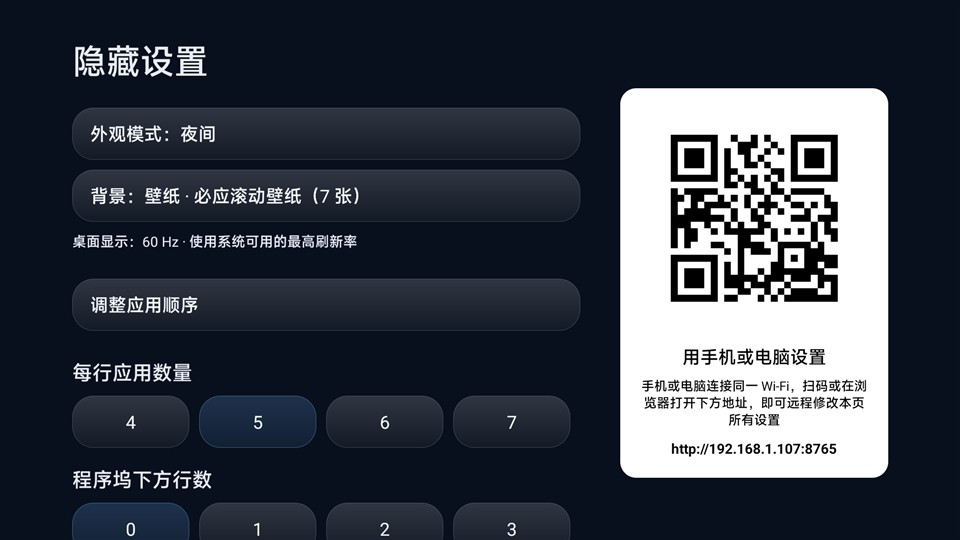
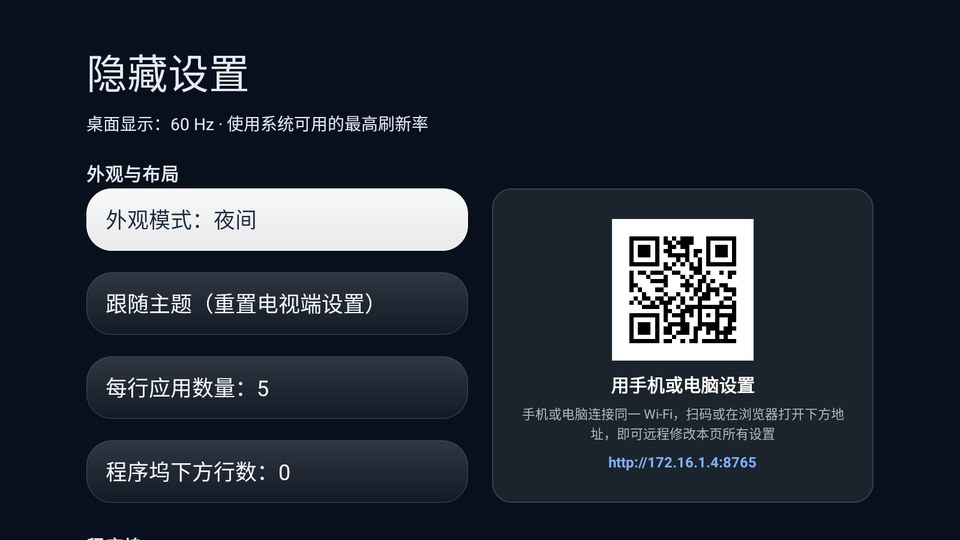
Update README for grouped settings layout, dark QR card and one-tap update

diff --git a/README.md b/README.md
@@ -30,7 +30,7 @@ CleanMiTV 的底子来自 **[CleanYourTV](https://github.com/Gathin23/cleanyourt
 | 👧 **儿童与老人模式** | 移植 [aerial-tv](https://github.com/pengchujin/aerial-tv) 的 Kids Mode：儿童/老人模式、4 位 PIN 锁、时长/作息/休息限制、应用白名单、全屏锁定，详见下方 [儿童与老人模式](#儿童与老人模式kids--elders-mode) |
 | 🏞 **必应滚动壁纸** | 「壁纸 · 使用已选图片」的选择弹窗里，「跟随主题」「无壁纸」旁边多一格「壁纸 · 必应滚动壁纸」：一次拉取 [bing.wdbyte.com/zh-cn/](https://bing.wdbyte.com/zh-cn/) 图集里最近 7 天的 4K 图（Bing 官方接口兜底），保留最近 7 天、最新在前，选完立刻能看到保留的图片，固定 30 分钟换一张并跟随网站每日自动更新，详见下方 [必应滚动壁纸](#必应滚动壁纸bing-rolling-wallpaper) |
 
-| 📱 **扫码设置（局域网远程配置）** | 隐藏设置页右侧显示二维码，手机 / 电脑连同一 Wi-Fi 扫码或浏览器打开，即可远程修改**全部隐藏设置及下级菜单**（外观、布局、天气城市、壁纸上传、开机包名）。纯手写 ServerSocket + 自绘二维码 + 原生网页，**零第三方依赖**，APK 仅增加约 11 KB，详见下方 [扫码设置](#扫码设置scan-to-config) |
+| 📱 **扫码设置（局域网远程配置）** | 隐藏设置页右上角显示与左侧四行等高的**深色二维码**，手机 / 电脑连同一 Wi-Fi 扫码或浏览器打开，即可远程修改**全部隐藏设置及下级菜单**（外观布局、壁纸、儿童 / 老人规则、答题计划、三套 PIN、一键版本更新）。纯手写 ServerSocket + 自绘二维码 + 原生网页 + 自写 ContentProvider，**零第三方依赖**，详见下方 [扫码设置](#扫码设置scan-to-config) 与 [一键版本更新](#一键版本更新one-tap-update) |
 
 同时保留了小爱同学、投屏、HDMI / CEC、幻彩随影、米家和系统更新等原厂功能，只停用了统计和诊断组件。
 
@@ -113,37 +113,42 @@ launcher/app/src/main/java/com/gathin/tvhome/
 
 ## 扫码设置（Scan to Config）
 
-不想拿遥控器一层层翻隐藏设置？在「隐藏设置」页右侧放了一张二维码卡片。手机或电脑和电视连**同一个 Wi-Fi（同一局域网）**，用相机 / 浏览器扫码，或者直接在浏览器打开卡片上的地址（如 `http://192.168.1.107:8765`），就能在一个网页里改完本页所有隐藏设置，保存后电视立刻生效。
+不想拿遥控器一层层翻隐藏设置？在「隐藏设置」页右上角放了一张**深色二维码卡片**，和左侧「外观与布局」四行等高、融为一体（不再是突兀的白色方块）。手机或电脑和电视连**同一个 Wi-Fi（同一局域网）**，用相机 / 浏览器扫码，或者直接在浏览器打开卡片上的地址（如 `http://192.168.1.107:8765`），就能在一个网页里改完**全部隐藏设置及下级菜单**（含儿童 / 老人规则、答题计划、PIN、一键版本更新），保存后电视立刻生效。
 
 **使用方法**
 
-1. 桌面「设置」→ 下拉菜单点「隐藏设置」，页面右侧即出现二维码卡片。
+1. 桌面「设置」→ 下拉菜单点「隐藏设置」，页面右上角即出现与左侧四行等高的深色二维码卡片。
 2. 手机 / 电脑连同一 Wi-Fi，扫码或浏览器打开卡片上的地址。
 3. 在网页里改设置，点底部「保存设置」；电视端 `settings_revision` 自增，回到桌面自动重建，无需重启。
 4. 想换壁纸：在网页「壁纸」区直接选图片上传，或在下拉里选已上传的壁纸。
+5. 想升级：在「版本更新」区填 APK 直链并保存，点「立即更新」即可下载并调起系统安装器（详见下方 [一键版本更新](#一键版本更新one-tap-update)）。
 
-**网页里能改的内容（与电视端隐藏设置一一对应）**
+**网页里能改的内容（与电视端隐藏设置一一对应，按六个折叠分组排列）**
 
-- **外观**：主题模式（夜间 / 白天 / 跟随系统）、背景来源（主题 / 壁纸 / 必应每日）、动画开关、环境背景动态；
-- **布局**：每行应用数（4–7）、程序坞下方行数（0–3）、程序坞透明度（100 / 70 / 50 / 30%）；
+- **外观与布局**：主题模式（夜间 / 白天 / 自动）、每行应用数（4–7）、程序坞下方行数（0–3）、跟随主题（重置电视端设置）；
+- **程序坞 / 壁纸 / 动态效果**：程序坞透明度（100 / 70 / 50 / 30%）、背景来源（主题 / 壁纸 / 必应每日）、壁纸选择与上传、环境背景动态、动画开关；
 - **天气城市**：46 个内置城市单选，默认成都；
-- **壁纸**：当前壁纸下拉选择 + 本地图片上传（JPG / PNG / WEBP，单张 ≤ 10 MB，最多 100 张）；
-- **高级**：开机自动打开的应用包名（留空关闭）。
+- **儿童 / 老人规则**：模式开关、应用白名单与排序、工作日 / 周末时长（0 = 不限，-1 = 整天禁用）、可用时段、强制休息；
+- **答题计划**：学段年级、科目、每轮题量、通过率、每日轮数、玩法模式、周时间网格；
+- **PIN 管理**：儿童 / 老人 / 管理员三套 PIN，可选 4 位数字或 4 个方向键；
+- **版本更新**：配置 APK 直链并一键下载安装。
 
 **零第三方依赖怎么做到的**
 
 - **HTTP 服务**：基于 JDK 原生 `ServerSocket`，后台守护线程 accept、线程池处理，只在隐藏设置页打开期间运行（进页面启动、退出页面即停），不常驻、不额外耗电。
 - **二维码**：自写 `QrCode`（字节模式、纠错级 M、版本 1–10、8 种掩码全评估，GF(256) 本原多项式 0x11D + Reed-Solomon 纠错），用 Python 移植版对照成熟库逐字节验证 48 项全部通过；`QrCodeView` 用原生 Canvas 把矩阵画成黑白方块。
 - **网页**：单个原生 HTML / CSS / JS 文件，无任何框架，蓝灰系、移动端友好，`fetch` 走相对路径。
-- **体积**：R8 压缩 + 手写代码精简，APK 从 551,276 B 增到 **562,651 B，仅多约 11 KB**；照片、视频是运行时传输，不打包进 APK。
+- **体积**：R8 压缩 + 手写代码精简，当前完整远程版 APK 为 **575,458 B（约 562 KiB）**；照片、视频、APK 升级包都是运行时传输，不打包进 APK。
 
 **路由与安全**
 
 | 路由 | 方法 | 作用 |
 |---|---|---|
 | `/` | GET | 返回配置网页 |
-| `/api/state` | GET | 当前值 + 可选值（城市、壁纸等） |
-| `/api/state` | POST | 白名单键回写，自增 `settings_revision` |
+| `/api/state` | GET | 当前值 + 可选值（三 prefs：基础设置 / 儿童老人 / 答题计划） |
+| `/api/state` | POST | 分区白名单键回写，自增 `settings_revision` |
+| `/api/pin` | POST | 明文条目重置儿童 / 老人 / 管理员 PIN（后端落哈希，不直接写哈希） |
+| `/api/update` | POST | 触发 APK 下载安装，返回更新状态与进度 |
 | `/api/upload` | POST | raw body 上传壁纸，文件名由 `X-Filename` 头给出 |
 
 - 所有回写键都在**服务端白名单**内校验（数值范围、字符串枚举、城市必须在 46 城列表内），非法值直接拒绝。
@@ -156,14 +161,38 @@ launcher/app/src/main/java/com/gathin/tvhome/
 launcher/app/src/main/java/com/gathin/tvhome/
   QrCode.java          二维码编码：字节模式 / 纠错 M / 版本 1-10 / 8 掩码 / Reed-Solomon
   QrCodeView.java      自定义 View：Canvas 绘制黑白矩阵，含 4 模块留白
-  RemoteConfigServer.java  纯 ServerSocket 的局域网 HTTP 服务与路由
+  RemoteConfigServer.java  纯 ServerSocket 的局域网 HTTP 服务与路由（三 prefs、分区白名单、PIN、更新）
+  ApkUpdater.java      零依赖下载（跟随 302 重定向、进度、PK 头校验）+ 调起系统安装器
+  ApkShareProvider.java 自写 ContentProvider，只读 canonical 路径，供安装器安全读取 APK
 launcher/app/src/main/assets/remote/
-  index.html           原生单页配置网页（无框架）
+  index.html           原生单页配置网页（无框架，六分组折叠）
 launcher/app/src/main/res/drawable/
-  bg_qr_card.xml       白色圆角卡片背景
+  bg_qr_card_dark.xml  深色圆角卡片背景（与左侧四行等高，二维码融入）
 ```
 
 **涉及修改**：`LauncherSettingsActivity.java`（启动 / 停止服务、取首个非回环 IPv4、构造 URL）、`activity_launcher_settings.xml`（水平布局，左侧设置、右侧固定二维码卡片，前面文本框自然向左缩进）、`PersonalAppearance.java`（夜间着色跳过白色卡片，保留其黑色文字）、两份 `strings.xml`（二维码标题 / 说明 / 不可用提示）。提交链：`8d9dc4ee`（扫码功能 + 主页 GIF）→ `cb1f13a1`（编译修复）→ `121f9b1f`（卡片文字对比度）→ `6d10e062`（二维码缩到三行等高、文字黑色）。
+
+## 一键版本更新（One-tap Update）
+
+在隐藏设置的「功能」分组里有一颗「版本更新」按钮，配合手机 / 电脑网页即可完成升级，不用 U 盘、不用手动传文件。
+
+**使用流程**
+
+1. 在手机 / 电脑网页「版本更新」区填 APK 的**真实下载直链**（≤ 500 字符）并保存；
+2. 回到电视隐藏设置点「版本更新」，或在网页点「立即更新」；
+3. `ApkUpdater` 后台下载，按 `Content-Length` 回报进度，先写 `update.part`、完整后校验 PK 头再改名 `update.apk`；
+4. 首次会检查「允许安装未知来源应用」权限（API 26+），缺权限先跳系统授权页；有权限则用 `content://` URI + `ACTION_VIEW` 调起系统安装器，点确认即装好。
+
+**链接说明**
+
+- **GitHub Release 链接**：附件地址会 302 重定向到 CDN，下载器已用 `setInstanceFollowRedirects(true)` 自动跟随，可直接填。
+- **夸克网盘**：`pan.quark.cn/s/...` 这类**分享页返回的是 HTML，不是 APK，不能直接填**；必须填夸克的真实下载直链，网页与设置页均已明确标注。
+- 下载只接受以 ZIP 本地文件头（`PK`）开头的内容，错误页面 / 失效链接会被拦下而不是拿去安装。
+
+**安全设计**
+
+- 安装器不直接读应用私有目录，而是经自写 `ApkShareProvider`（`ContentProvider`，authority `${applicationId}.apkshare`）暴露；该 Provider 只读、对路径做 canonical 校验，无法通过 `..` 逃逸到其他文件。
+- Manifest 声明 `REQUEST_INSTALL_PACKAGES`；更新状态（`state / progress / message`）经 `/api/state` 的 `update` 字段返回，网页可轮询进度。
 
 <details>
 <summary>📜 历史版本更新记录（v2.7.7 – v2.9.0，点击展开）</summary>
@@ -576,7 +605,7 @@ kids_overlay_need = 家长：请允许本应用「显示在其他应用的上层
 | ![](docs/tvhome/latest-home.jpg) | ![](docs/tvhome/latest-kids-home.jpg) |
 | **管理员密码框：标题「管理员密码」，没有「忘记密码」** | **密码管理菜单：重置儿童 / 重置老人 / 修改管理员** |
 | ![](docs/tvhome/latest-admin-pin.jpg) | ![](docs/tvhome/latest-admin-menu.jpg) |
-| **隐藏设置页：右侧二维码卡片，二维码与左侧三行等高、文字黑色** | **扫码 / 浏览器打开后，网页可远程修改全部隐藏设置** |
+| **隐藏设置页：深色二维码卡片与左侧四行等高，设置按类别分组排列** | **扫码 / 浏览器打开后，网页可远程修改全部隐藏设置** |
 | ![](docs/tvhome/latest-scan-card.jpg) | <img src="docs/tvhome/latest-scan-web.jpg" width="300" /> |
 
 <details>
@@ -663,7 +692,7 @@ cd launcher
 
 ## 验证情况
 
-- 255 项单元测试通过，`lintRelease` 通过；当前 release APK 为 562,651 B（约 549 KiB，R8 压缩 + 零依赖手写实现；扫码功能仅比上一版多约 11 KB，已略超原项目 512 KiB 的参考线）。
+- 255 项单元测试通过，`lintRelease` 通过；当前完整远程版 release APK 为 575,458 B（约 562 KiB，R8 压缩 + 零依赖手写实现，含三 prefs 远程配置、PIN 与一键更新）。
 - 已在 MiTV-MFTR0 上实机验证：Home 接管、重启后仍保持、日夜模式、16 张壁纸、APP 主色切换、文件管理和小米设置入口，以及 HDMI 输入切换。
 - 本 fork 另在 MiTV-ASTR0（Android 11，包名 `com.ts.launcher`）上用 adb 实测：三颗顶栏胶囊（第三颗现为「设置」）、设置下拉菜单（输入源 / 网络 / 隐藏设置 / 系统设置 / 儿童/老人模式 / 调整应用顺序）、壁纸弹窗三格（跟随主题 / 无壁纸 / 必应滚动壁纸）、必应图集标题「保留 N 张，最新在前」与日期标签、桌面换成当日必应 4K 图。
 - 扫码功能在同一局域网实测：电脑浏览器打开 `http://192.168.1.107:8765`，`GET /api/state` 返回当前值与 46 城列表；`POST /api/state` 回写天气城市并自增 `settings_revision`；`POST /api/upload` 上传壁纸成功，`../../evil.png` 被清洗为目录内文件名、无法路径穿越；二维码卡片实拍渲染正确、文字黑色、与左侧三行等高。
